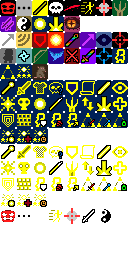
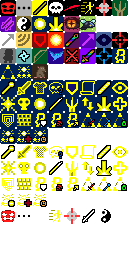
요정 보조직업 전용 아이콘 (날개 달린 셰리 모자)
- 영웅 아이콘 시트 빈칸(13번)에 요정 아이콘 추가, 요정 보조직업에 연결
- 검투사 아이콘은 그대로 유지
- 수정 전 파일은 _manosaba_backup/before_fairy_icon 에 보관

Claude-Session: https://claude.ai/code/session_01EfY4ERnXwVLrxKHfiJFNfK

Changed region(s): [[0.625, 0.0625, 0.75, 0.125]]

diff --git a/_manosaba_backup/before_fairy_icon/HeroSubClass.java b/_manosaba_backup/before_fairy_icon/HeroSubClass.java
@@ -50,8 +50,8 @@ public enum HeroSubClass {
 	PRIEST(HeroIcon.PRIEST),
 	PALADIN(HeroIcon.PALADIN),
 
-	//[Manosaba] 타치바나 셰리 서브클래스
-	SHERRY_FAIRY(HeroIcon.SHERRY_FAIRY),  //요정님이에요!
+	//[Manosaba] 타치바나 셰리 서브클래스 (요정님 아이콘은 검투사 것을 임시로 사용)
+	SHERRY_FAIRY(HeroIcon.GLADIATOR),  //요정님이에요!
 	SHERRY_WITCH(HeroIcon.SHERRY_WITCH);  //마녀화라는 건 [이런] 거군요.
 
 	int icon;

diff --git a/_manosaba_backup/before_fairy_icon/HeroIcon.java b/_manosaba_backup/before_fairy_icon/HeroIcon.java
@@ -51,7 +51,6 @@ public class HeroIcon extends Image {
 	public static final int PRIEST      = 10;
 	public static final int PALADIN     = 11;
 	public static final int SHERRY_WITCH = 12; //[Manosaba] 셰리 마녀화 눈
-	public static final int SHERRY_FAIRY = 13; //[Manosaba] 셰리 요정 (날개 달린 모자)
 
 	//abilities
 	public static final int HEROIC_LEAP     = 16;
